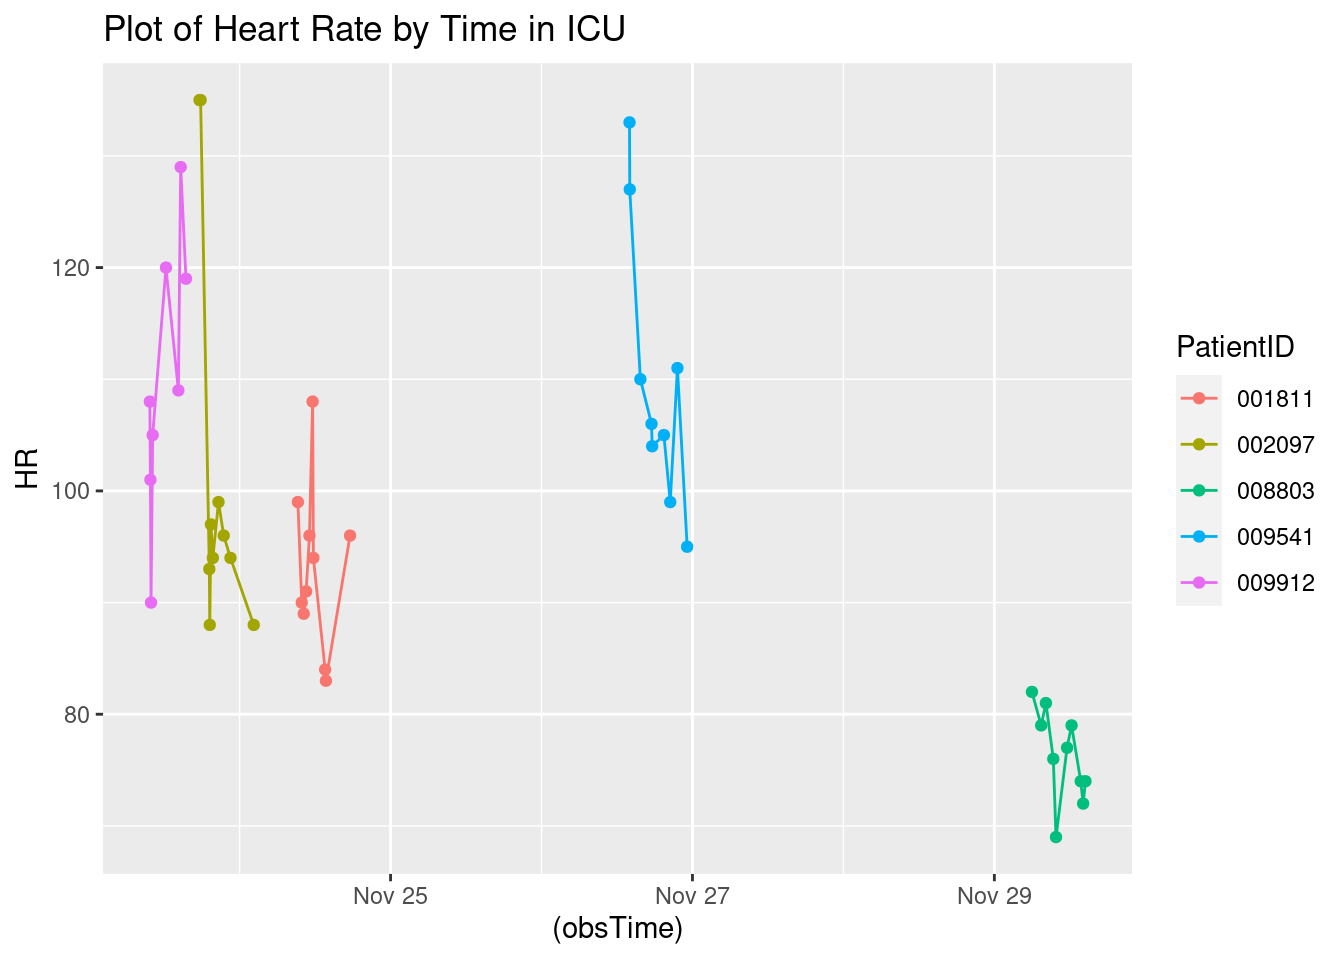
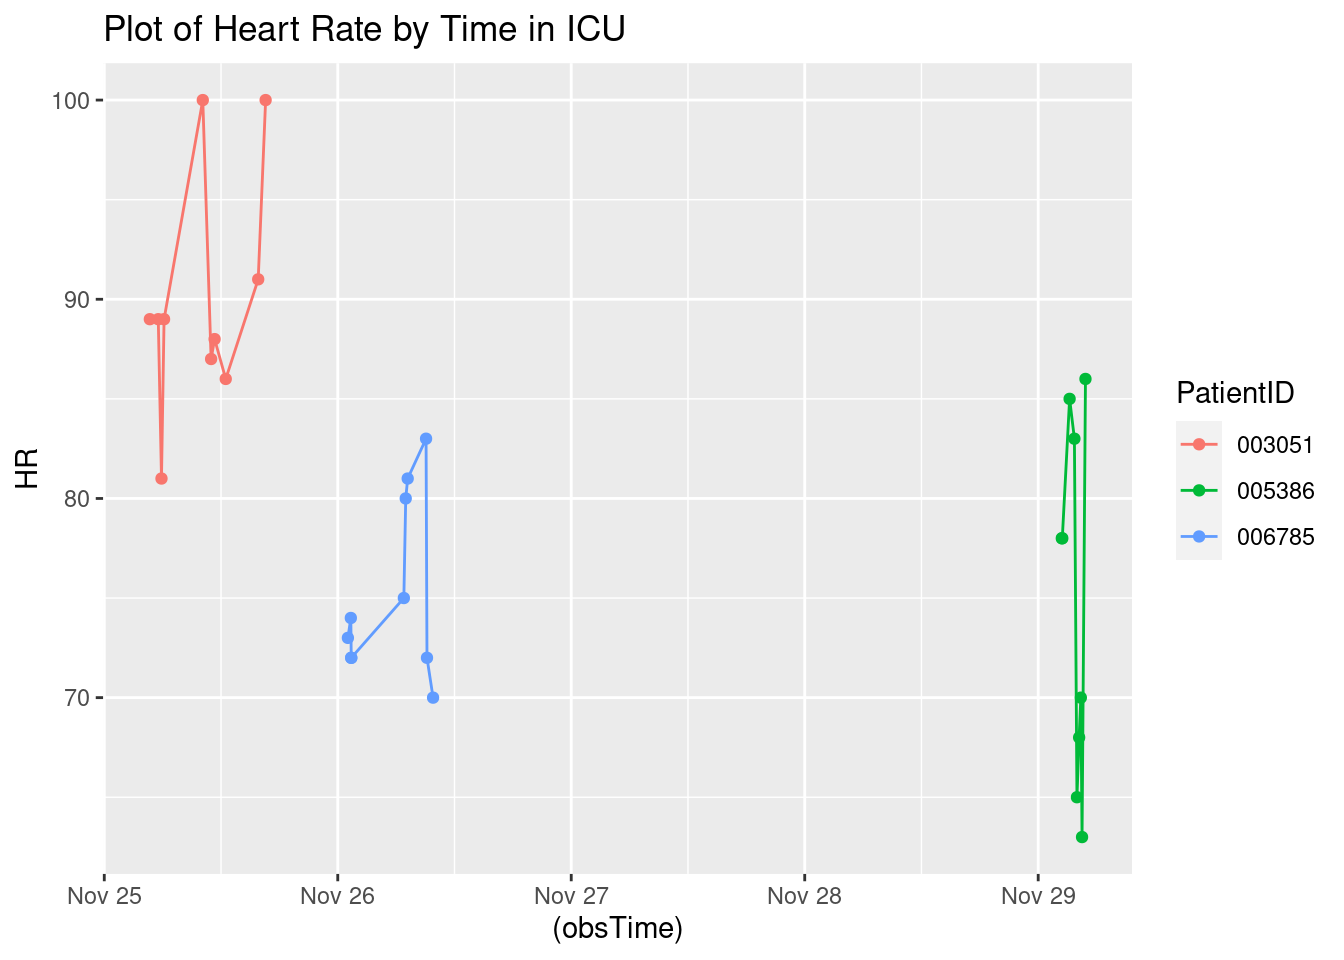
Updated report

diff --git a/A7.html b/A7.html
@@ -114,7 +114,7 @@ pre > code.sourceCode > span > a:first-child::before { text-decoration: underlin
 </div>
 <div class="sourceCode cell-code" id="cb4"><pre class="sourceCode r code-with-copy"><code class="sourceCode r"><span id="cb4-1"><a href="#cb4-1" aria-hidden="true" tabindex="-1"></a><span class="fu">toc</span>()</span></code><button title="Copy to Clipboard" class="code-copy-button"><i class="bi"></i></button></pre></div>
 <div class="cell-output cell-output-stdout">
-<pre><code>6.338 sec elapsed</code></pre>
+<pre><code>3.704 sec elapsed</code></pre>
 </div>
 <div class="sourceCode cell-code" id="cb6"><pre class="sourceCode r code-with-copy"><code class="sourceCode r"><span id="cb6-1"><a href="#cb6-1" aria-hidden="true" tabindex="-1"></a><span class="fu">tic</span>()</span>
 <span id="cb6-2"><a href="#cb6-2" aria-hidden="true" tabindex="-1"></a>test1<span class="ot">=</span><span class="fu">makeSepsisDataset</span>(<span class="at">n=</span><span class="dv">50</span>,<span class="at">read_fn =</span> <span class="st">"read_delim"</span>)</span>
@@ -124,7 +124,7 @@ pre > code.sourceCode > span > a:first-child::before { text-decoration: underlin
 </div>
 <div class="sourceCode cell-code" id="cb8"><pre class="sourceCode r code-with-copy"><code class="sourceCode r"><span id="cb8-1"><a href="#cb8-1" aria-hidden="true" tabindex="-1"></a><span class="fu">toc</span>()</span></code><button title="Copy to Clipboard" class="code-copy-button"><i class="bi"></i></button></pre></div>
 <div class="cell-output cell-output-stdout">
-<pre><code>23.574 sec elapsed</code></pre>
+<pre><code>13.547 sec elapsed</code></pre>
 </div>
 <div class="sourceCode cell-code" id="cb10"><pre class="sourceCode r code-with-copy"><code class="sourceCode r"><span id="cb10-1"><a href="#cb10-1" aria-hidden="true" tabindex="-1"></a><span class="co"># n=100</span></span>
 <span id="cb10-2"><a href="#cb10-2" aria-hidden="true" tabindex="-1"></a><span class="fu">tic</span>()</span>
@@ -135,7 +135,7 @@ pre > code.sourceCode > span > a:first-child::before { text-decoration: underlin
 </div>
 <div class="sourceCode cell-code" id="cb12"><pre class="sourceCode r code-with-copy"><code class="sourceCode r"><span id="cb12-1"><a href="#cb12-1" aria-hidden="true" tabindex="-1"></a><span class="fu">toc</span>()</span></code><button title="Copy to Clipboard" class="code-copy-button"><i class="bi"></i></button></pre></div>
 <div class="cell-output cell-output-stdout">
-<pre><code>11.566 sec elapsed</code></pre>
+<pre><code>6.57 sec elapsed</code></pre>
 </div>
 <div class="sourceCode cell-code" id="cb14"><pre class="sourceCode r code-with-copy"><code class="sourceCode r"><span id="cb14-1"><a href="#cb14-1" aria-hidden="true" tabindex="-1"></a><span class="fu">tic</span>()</span>
 <span id="cb14-2"><a href="#cb14-2" aria-hidden="true" tabindex="-1"></a>test1<span class="ot">=</span><span class="fu">makeSepsisDataset</span>(<span class="at">n=</span><span class="dv">100</span>,<span class="at">read_fn =</span> <span class="st">"read_delim"</span>)</span>
@@ -145,7 +145,7 @@ pre > code.sourceCode > span > a:first-child::before { text-decoration: underlin
 </div>
 <div class="sourceCode cell-code" id="cb16"><pre class="sourceCode r code-with-copy"><code class="sourceCode r"><span id="cb16-1"><a href="#cb16-1" aria-hidden="true" tabindex="-1"></a><span class="fu">toc</span>()</span></code><button title="Copy to Clipboard" class="code-copy-button"><i class="bi"></i></button></pre></div>
 <div class="cell-output cell-output-stdout">
-<pre><code>43.283 sec elapsed</code></pre>
+<pre><code>24.372 sec elapsed</code></pre>
 </div>
 <div class="sourceCode cell-code" id="cb18"><pre class="sourceCode r code-with-copy"><code class="sourceCode r"><span id="cb18-1"><a href="#cb18-1" aria-hidden="true" tabindex="-1"></a><span class="co"># n=500</span></span>
 <span id="cb18-2"><a href="#cb18-2" aria-hidden="true" tabindex="-1"></a><span class="fu">tic</span>()</span>
@@ -156,7 +156,7 @@ pre > code.sourceCode > span > a:first-child::before { text-decoration: underlin
 </div>
 <div class="sourceCode cell-code" id="cb20"><pre class="sourceCode r code-with-copy"><code class="sourceCode r"><span id="cb20-1"><a href="#cb20-1" aria-hidden="true" tabindex="-1"></a><span class="fu">toc</span>()</span></code><button title="Copy to Clipboard" class="code-copy-button"><i class="bi"></i></button></pre></div>
 <div class="cell-output cell-output-stdout">
-<pre><code>57.689 sec elapsed</code></pre>
+<pre><code>33.267 sec elapsed</code></pre>
 </div>
 <div class="sourceCode cell-code" id="cb22"><pre class="sourceCode r code-with-copy"><code class="sourceCode r"><span id="cb22-1"><a href="#cb22-1" aria-hidden="true" tabindex="-1"></a><span class="fu">tic</span>()</span>
 <span id="cb22-2"><a href="#cb22-2" aria-hidden="true" tabindex="-1"></a>test1<span class="ot">=</span><span class="fu">makeSepsisDataset</span>(<span class="at">n=</span><span class="dv">500</span>,<span class="at">read_fn =</span> <span class="st">"read_delim"</span>)</span>
@@ -166,7 +166,7 @@ pre > code.sourceCode > span > a:first-child::before { text-decoration: underlin
 </div>
 <div class="sourceCode cell-code" id="cb24"><pre class="sourceCode r code-with-copy"><code class="sourceCode r"><span id="cb24-1"><a href="#cb24-1" aria-hidden="true" tabindex="-1"></a><span class="fu">toc</span>()</span></code><button title="Copy to Clipboard" class="code-copy-button"><i class="bi"></i></button></pre></div>
 <div class="cell-output cell-output-stdout">
-<pre><code>216.75 sec elapsed</code></pre>
+<pre><code>121.223 sec elapsed</code></pre>
 </div>
 </div>
 <p><strong>Task 3</strong></p>
@@ -192,7 +192,7 @@ pre > code.sourceCode > span > a:first-child::before { text-decoration: underlin
 <span id="cb28-4"><a href="#cb28-4" aria-hidden="true" tabindex="-1"></a></span>
 <span id="cb28-5"><a href="#cb28-5" aria-hidden="true" tabindex="-1"></a><span class="fu">Sys.time</span>()</span></code><button title="Copy to Clipboard" class="code-copy-button"><i class="bi"></i></button></pre></div>
 <div class="cell-output cell-output-stdout">
-<pre><code>[1] "2023-11-23 03:24:00 UTC"</code></pre>
+<pre><code>[1] "2023-11-23 04:24:21 UTC"</code></pre>
 </div>
 <div class="sourceCode cell-code" id="cb30"><pre class="sourceCode r code-with-copy"><code class="sourceCode r"><span id="cb30-1"><a href="#cb30-1" aria-hidden="true" tabindex="-1"></a>dfnew <span class="ot">&lt;-</span> df <span class="sc">%&gt;%</span></span>
 <span id="cb30-2"><a href="#cb30-2" aria-hidden="true" tabindex="-1"></a>  <span class="fu">subset</span>(SepsisLabel<span class="sc">==</span><span class="dv">1</span>)</span>
@@ -221,49 +221,31 @@ pre > code.sourceCode > span > a:first-child::before { text-decoration: underlin
 </thead>
 <tbody>
 <tr class="odd">
-<td style="text-align: left;">001811</td>
-<td style="text-align: right;">41</td>
-<td style="text-align: right;">96</td>
+<td style="text-align: left;">003051</td>
+<td style="text-align: right;">62</td>
+<td style="text-align: right;">100</td>
 <td style="text-align: right;">NA</td>
-<td style="text-align: right;">16</td>
+<td style="text-align: right;">43</td>
 <td style="text-align: right;">1</td>
-<td style="text-align: left;">2023-11-24 17:33:38</td>
+<td style="text-align: left;">2023-11-25 16:35:07</td>
 </tr>
 <tr class="even">
-<td style="text-align: left;">002097</td>
-<td style="text-align: right;">25</td>
-<td style="text-align: right;">88</td>
-<td style="text-align: right;">38.28</td>
-<td style="text-align: right;">17</td>
+<td style="text-align: left;">005386</td>
+<td style="text-align: right;">146</td>
+<td style="text-align: right;">86</td>
+<td style="text-align: right;">NA</td>
+<td style="text-align: right;">26</td>
 <td style="text-align: right;">1</td>
-<td style="text-align: left;">2023-11-24 02:14:52</td>
+<td style="text-align: left;">2023-11-29 04:51:30</td>
 </tr>
 <tr class="odd">
-<td style="text-align: left;">008803</td>
-<td style="text-align: right;">158</td>
-<td style="text-align: right;">74</td>
+<td style="text-align: left;">006785</td>
+<td style="text-align: right;">78</td>
+<td style="text-align: right;">70</td>
 <td style="text-align: right;">NA</td>
-<td style="text-align: right;">19</td>
+<td style="text-align: right;">15</td>
 <td style="text-align: right;">1</td>
-<td style="text-align: left;">2023-11-29 14:29:09</td>
-</tr>
-<tr class="even">
-<td style="text-align: left;">009541</td>
-<td style="text-align: right;">95</td>
-<td style="text-align: right;">95</td>
-<td style="text-align: right;">NA</td>
-<td style="text-align: right;">14</td>
-<td style="text-align: right;">1</td>
-<td style="text-align: left;">2023-11-26 23:09:22</td>
-</tr>
-<tr class="odd">
-<td style="text-align: left;">009912</td>
-<td style="text-align: right;">13</td>
-<td style="text-align: right;">NA</td>
-<td style="text-align: right;">NA</td>
-<td style="text-align: right;">NA</td>
-<td style="text-align: right;">1</td>
-<td style="text-align: left;">2023-11-23 15:54:38</td>
+<td style="text-align: left;">2023-11-26 09:47:53</td>
 </tr>
 </tbody>
 </table>
